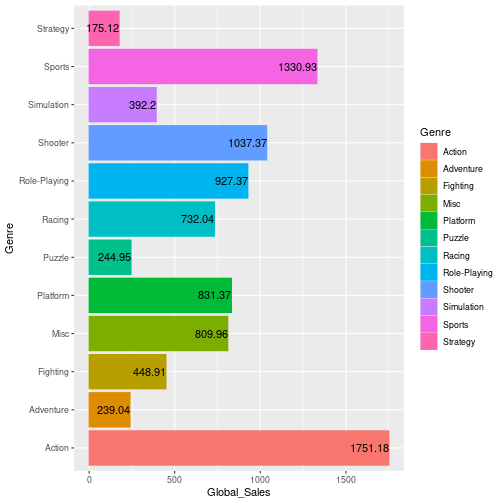
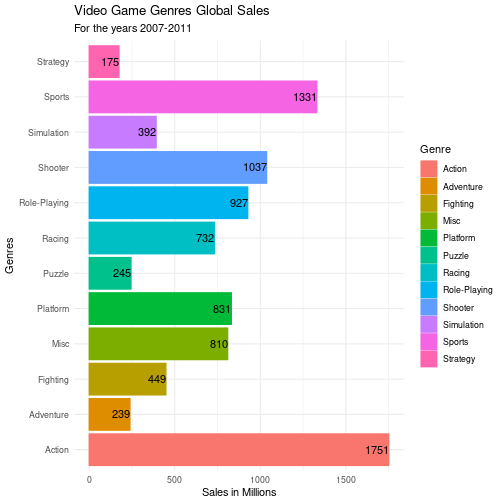
Formattable magic

diff --git a/projectgroup3/presentation.html b/projectgroup3/presentation.html
@@ -63,10 +63,11 @@ First we load the packages *&lt;u&gt;tidyverse&lt;/u&gt;* and *&lt;u&gt;skimr&lt
 
 ```r
 library(tidyverse)
+library(formattable)
 library(skimr)
 ```
 --
-Using these packages we can save the dataset using *&lt;u&gt;read_csv&lt;/u&gt;*.
+Using these packages we can save the dataset using *&lt;u&gt;read_csv&lt;/u&gt;* and later edit our tabels.
 
 
 ```r
@@ -119,7 +120,7 @@ Table: Data summary
 ---
 
 ```r
-glimpse(vgsales)
+glimpse(vgsales) 
 ```
 
 ```
@@ -155,24 +156,66 @@ glimpse(vgsales)
 
 ***In order to not reject our hypothesis, our results should indicate that the most produced genre also has the highest amount of sales.***
 ---
+##Genre and Global Sales Table
 
-```
-## # A tibble: 12 x 2
-##    Genre        Global_Sales
-##    &lt;chr&gt;               &lt;dbl&gt;
-##  1 Action              1751.
-##  2 Sports              1331.
-##  3 Shooter             1037.
-##  4 Role-Playing         927.
-##  5 Platform             831.
-##  6 Misc                 810.
-##  7 Racing               732.
-##  8 Fighting             449.
-##  9 Simulation           392.
-## 10 Puzzle               245.
-## 11 Adventure            239.
-## 12 Strategy             175.
-```
+&lt;table class="table table-condensed"&gt;
+ &lt;thead&gt;
+  &lt;tr&gt;
+   &lt;th style="text-align:center;"&gt; Genre &lt;/th&gt;
+   &lt;th style="text-align:center;"&gt; Global_Sales &lt;/th&gt;
+  &lt;/tr&gt;
+ &lt;/thead&gt;
+&lt;tbody&gt;
+  &lt;tr&gt;
+   &lt;td style="text-align:center;"&gt; &lt;span style="color: orange; font-weight: bold"&gt;Action      &lt;/span&gt; &lt;/td&gt;
+   &lt;td style="text-align:center;"&gt; &lt;span style="display: block; padding: 0 4px; border-radius: 4px; background-color: #add8e6"&gt;1751.18&lt;/span&gt; &lt;/td&gt;
+  &lt;/tr&gt;
+  &lt;tr&gt;
+   &lt;td style="text-align:center;"&gt; &lt;span style="color: orange; font-weight: bold"&gt;Sports      &lt;/span&gt; &lt;/td&gt;
+   &lt;td style="text-align:center;"&gt; &lt;span style="display: block; padding: 0 4px; border-radius: 4px; background-color: #add8e6"&gt;1330.93&lt;/span&gt; &lt;/td&gt;
+  &lt;/tr&gt;
+  &lt;tr&gt;
+   &lt;td style="text-align:center;"&gt; &lt;span style="color: orange; font-weight: bold"&gt;Shooter     &lt;/span&gt; &lt;/td&gt;
+   &lt;td style="text-align:center;"&gt; &lt;span style="display: block; padding: 0 4px; border-radius: 4px; background-color: #add8e6"&gt;1037.37&lt;/span&gt; &lt;/td&gt;
+  &lt;/tr&gt;
+  &lt;tr&gt;
+   &lt;td style="text-align:center;"&gt; &lt;span style="color: orange; font-weight: bold"&gt;Role-Playing&lt;/span&gt; &lt;/td&gt;
+   &lt;td style="text-align:center;"&gt; &lt;span style="display: block; padding: 0 4px; border-radius: 4px; background-color: #add8e6"&gt;927.37&lt;/span&gt; &lt;/td&gt;
+  &lt;/tr&gt;
+  &lt;tr&gt;
+   &lt;td style="text-align:center;"&gt; &lt;span style="color: orange; font-weight: bold"&gt;Platform    &lt;/span&gt; &lt;/td&gt;
+   &lt;td style="text-align:center;"&gt; &lt;span style="display: block; padding: 0 4px; border-radius: 4px; background-color: #add8e6"&gt;831.37&lt;/span&gt; &lt;/td&gt;
+  &lt;/tr&gt;
+  &lt;tr&gt;
+   &lt;td style="text-align:center;"&gt; &lt;span style="color: orange; font-weight: bold"&gt;Misc        &lt;/span&gt; &lt;/td&gt;
+   &lt;td style="text-align:center;"&gt; &lt;span style="display: block; padding: 0 4px; border-radius: 4px; background-color: #add8e6"&gt;809.96&lt;/span&gt; &lt;/td&gt;
+  &lt;/tr&gt;
+  &lt;tr&gt;
+   &lt;td style="text-align:center;"&gt; &lt;span style="color: orange; font-weight: bold"&gt;Racing      &lt;/span&gt; &lt;/td&gt;
+   &lt;td style="text-align:center;"&gt; &lt;span style="display: block; padding: 0 4px; border-radius: 4px; background-color: #add8e6"&gt;732.04&lt;/span&gt; &lt;/td&gt;
+  &lt;/tr&gt;
+  &lt;tr&gt;
+   &lt;td style="text-align:center;"&gt; &lt;span style="color: orange; font-weight: bold"&gt;Fighting    &lt;/span&gt; &lt;/td&gt;
+   &lt;td style="text-align:center;"&gt; &lt;span style="display: block; padding: 0 4px; border-radius: 4px; background-color: #add8e6"&gt;448.91&lt;/span&gt; &lt;/td&gt;
+  &lt;/tr&gt;
+  &lt;tr&gt;
+   &lt;td style="text-align:center;"&gt; &lt;span style="color: orange; font-weight: bold"&gt;Simulation  &lt;/span&gt; &lt;/td&gt;
+   &lt;td style="text-align:center;"&gt; &lt;span style="display: block; padding: 0 4px; border-radius: 4px; background-color: #add8e6"&gt;392.20&lt;/span&gt; &lt;/td&gt;
+  &lt;/tr&gt;
+  &lt;tr&gt;
+   &lt;td style="text-align:center;"&gt; &lt;span style="color: orange; font-weight: bold"&gt;Puzzle      &lt;/span&gt; &lt;/td&gt;
+   &lt;td style="text-align:center;"&gt; &lt;span style="display: block; padding: 0 4px; border-radius: 4px; background-color: #add8e6"&gt;244.95&lt;/span&gt; &lt;/td&gt;
+  &lt;/tr&gt;
+  &lt;tr&gt;
+   &lt;td style="text-align:center;"&gt; &lt;span style="color: orange; font-weight: bold"&gt;Adventure   &lt;/span&gt; &lt;/td&gt;
+   &lt;td style="text-align:center;"&gt; &lt;span style="display: block; padding: 0 4px; border-radius: 4px; background-color: #add8e6"&gt;239.04&lt;/span&gt; &lt;/td&gt;
+  &lt;/tr&gt;
+  &lt;tr&gt;
+   &lt;td style="text-align:center;"&gt; &lt;span style="color: orange; font-weight: bold"&gt;Strategy    &lt;/span&gt; &lt;/td&gt;
+   &lt;td style="text-align:center;"&gt; &lt;span style="display: block; padding: 0 4px; border-radius: 4px; background-color: #add8e6"&gt;175.12&lt;/span&gt; &lt;/td&gt;
+  &lt;/tr&gt;
+&lt;/tbody&gt;
+&lt;/table&gt;
 
 ---
 
@@ -217,8 +260,6 @@ glimpse(vgsales)
 ```
 
 ---
-
-## Plots ##
 ![](presentation_files/figure-html/Plot1-1.png)&lt;!-- --&gt;
 
 ---
